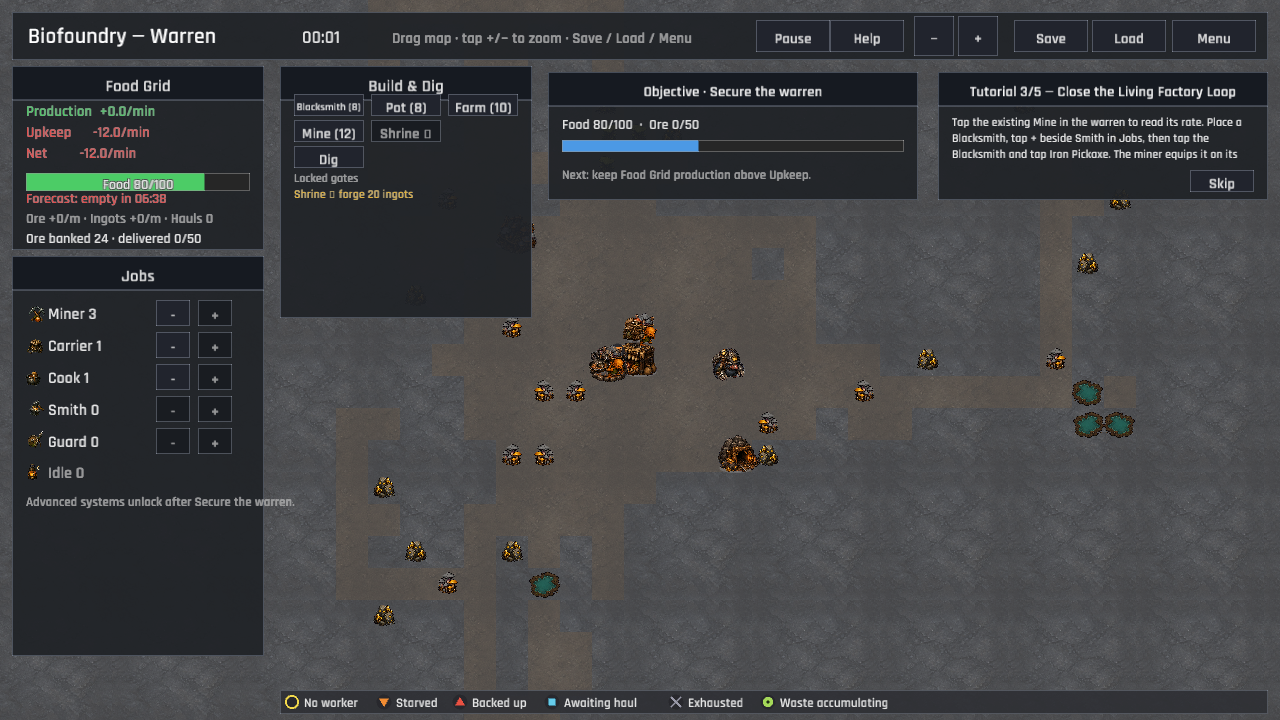
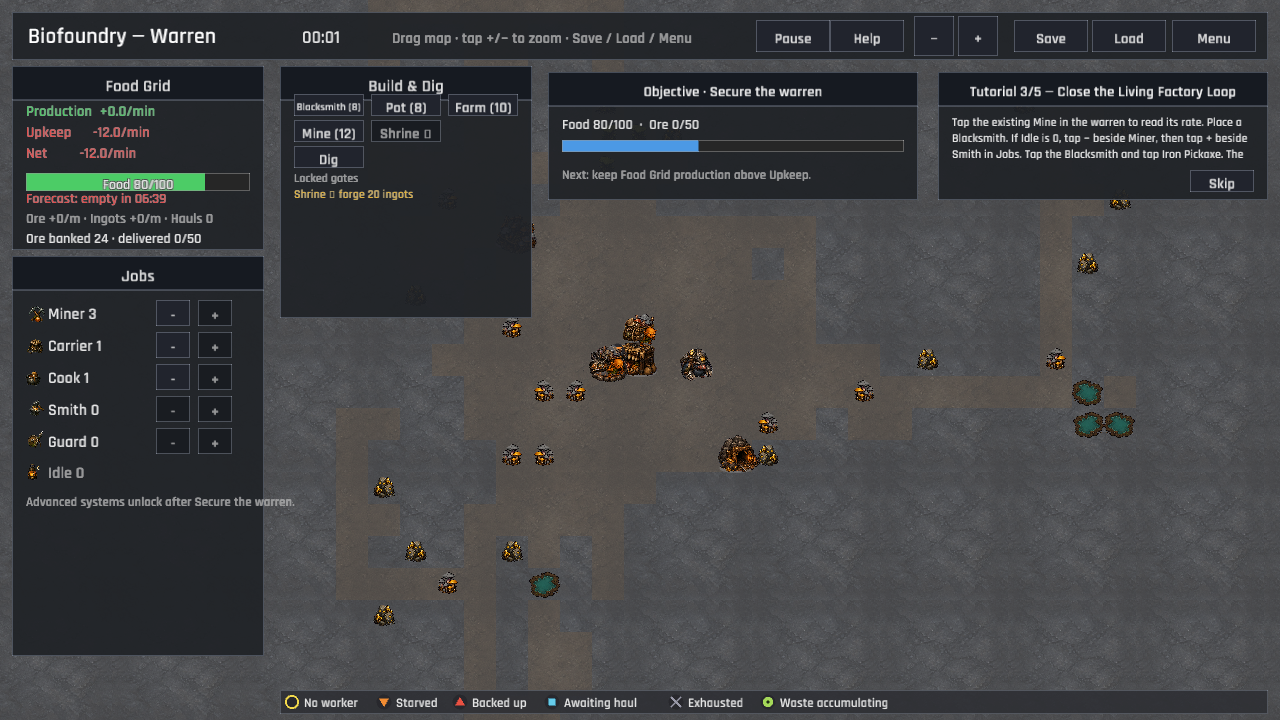
The field guide frees a hand for the anvil (P1 tutorial recovery)
A fresh warren begins with every worker assigned, so the Factory lesson's Smith plus button is disabled until the player frees a Miner. The tutorial now names that visible recovery sequence while preserving the optional shortcut when Idle already has a worker.

Changed region(s): [[0.75, 0.1833, 0.9688, 0.2444], [0.4688, 0.4278, 0.5312, 0.5194], [0.5312, 0.4889, 0.5938, 0.55]]

diff --git a/src/tutorial/tests.rs b/src/tutorial/tests.rs
@@ -105,6 +105,9 @@ fn factory_lesson_points_to_the_prebuilt_mine() {
 
     assert!(factory.body.contains("existing Mine in the warren"));
     assert!(factory.body.contains("Blacksmith"));
+    assert!(factory
+        .body
+        .contains("− beside Miner, then tap + beside Smith"));
     assert!(factory.body.contains("Iron Pickaxe"));
 }
 
